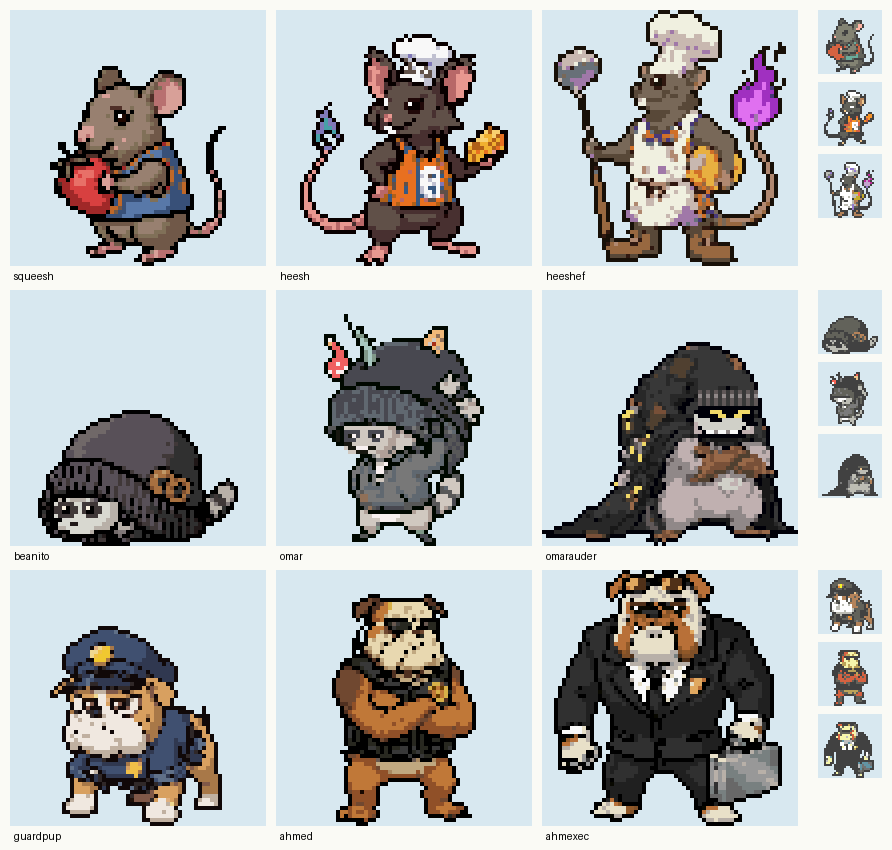
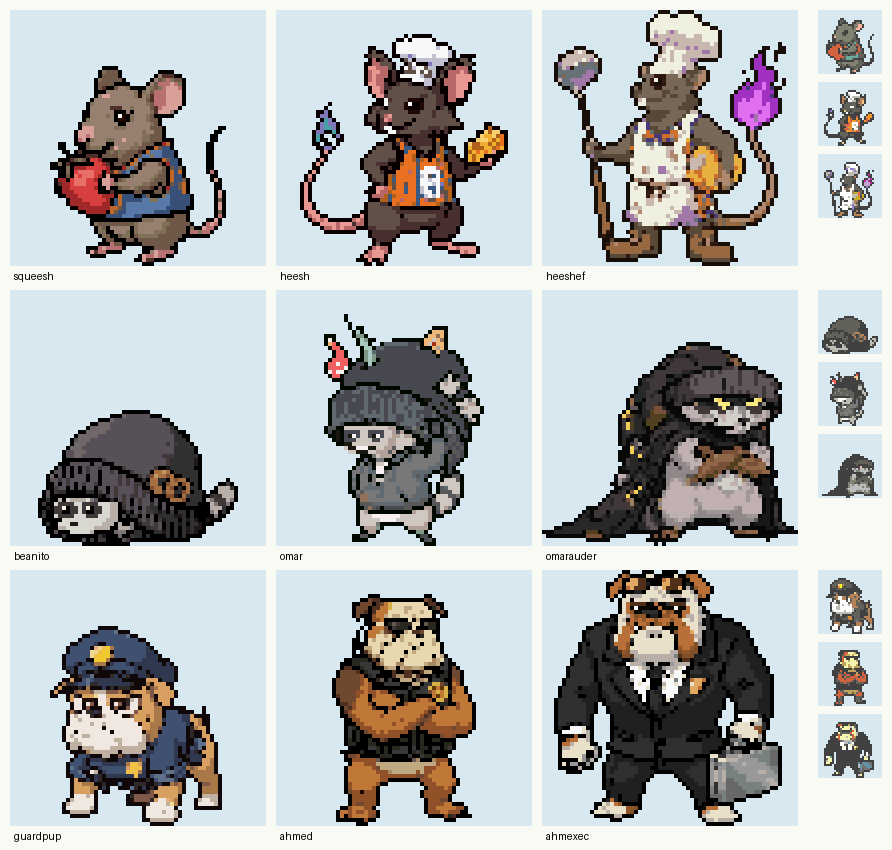
Rebuild Omarauder's face from the original art instead of drawing it
Adds --enlarge to the converter: an oval region of the source (the head) is
scaled up before conversion, like Gen 3's slightly oversized heads, so the
artist's own eyes, mask and nose survive at 64x64. Omarauder's head is
enlarged 1.5x; on top of that only the right eye is mirrored to match the
left and a thin smirk is added.

Claude-Session: https://claude.ai/code/session_01BRCGKvtVfxSvTFq1kJgtBG

Changed region(s): [[0.6962, 0.4282, 0.8778, 0.6424], [0.9383, 0.5506, 0.9686, 0.5812]]

diff --git a/emerald-remix/tools/convert_sprite.py b/emerald-remix/tools/convert_sprite.py
@@ -76,8 +76,33 @@ def lift_darks(rgb, solid, gamma, tint):
     return np.clip(out, 0, 255)
 
 
-def load(src, recolors, lift=None, tint=(0, 0, 0)):
+def enlarge(rgb, spec):
+    """'X0,Y0,X1,Y1:SCALE' scales the oval inside that box (source pixels) up from its bottom centre.
+
+    Real Gen 3 sprites give Pokémon slightly oversized heads so the face survives at 64x64; doing
+    the same to the source lets the converter keep the artist's own eyes and mouth."""
+    box, scale = spec.split(":")
+    x0, y0, x1, y1 = map(int, box.split(","))
+    scale = float(scale)
+    crop = rgb[y0:y1, x0:x1]
+    h, w = crop.shape[:2]
+    yy, xx = np.mgrid[0:h, 0:w]
+    oval = ((xx - w / 2) / (w / 2)) ** 2 + ((yy - h / 2) / (h / 2)) ** 2 <= 1
+    keep = oval & ~green_mask(crop)
+    nw, nh = round(w * scale), round(h * scale)
+    big = np.stack([np.asarray(Image.fromarray(crop[..., c]).resize((nw, nh), Image.LANCZOS)) for c in range(3)], -1)
+    bigmask = np.asarray(Image.fromarray(keep.astype(np.float32)).resize((nw, nh), Image.BILINEAR)) > 0.5
+    px, py = round((x0 + x1) / 2 - nw / 2), y1 - nh
+    out = rgb.copy()
+    region = out[py:py + nh, px:px + nw]
+    region[bigmask] = np.clip(big, 0, 255)[bigmask]
+    return out
+
+
+def load(src, recolors, lift=None, tint=(0, 0, 0), enlarges=()):
     rgb = np.asarray(Image.open(src).convert("RGB"), dtype=np.float32)
+    for spec in enlarges:
+        rgb = enlarge(rgb, spec)
     solid = ~green_mask(rgb)
     # Green spill on edge pixels: pull green down to the other channels.
     spill = solid & (rgb[..., 1] > np.maximum(rgb[..., 0], rgb[..., 2]) + 20)
@@ -290,6 +315,8 @@ def main():
     ap.add_argument("--stage", type=int, choices=(1, 2, 3), required=True)
     ap.add_argument("--back", action="store_true", help="source is a back sprite")
     ap.add_argument("--no-icon", dest="icon", action="store_false")
+    ap.add_argument("--enlarge", action="append", default=[], metavar="X0,Y0,X1,Y1:SCALE",
+                    help="enlarge an oval region of the source (e.g. the head) before converting")
     ap.add_argument("--lift-darks", type=float, metavar="GAMMA",
                     help="brighten dark fills (e.g. 0.7) so black-clothed designs keep shading")
     ap.add_argument("--dark-tint", default="0,0,0", metavar="R,G,B",
@@ -302,7 +329,7 @@ def main():
     a = ap.parse_args()
     LINE_SHARE, CONTRAST = a.line_share, a.contrast
     os.makedirs(a.out_dir, exist_ok=True)
-    rgb, solid = load(a.source, a.recolor, a.lift_darks, tuple(map(int, a.dark_tint.split(","))))
+    rgb, solid = load(a.source, a.recolor, a.lift_darks, tuple(map(int, a.dark_tint.split(","))), a.enlarge)
     make_sprite(rgb, solid, a.out_dir, a.stage, a.back, a.method)
     msg = a.out_dir
     if a.icon and not a.back:
